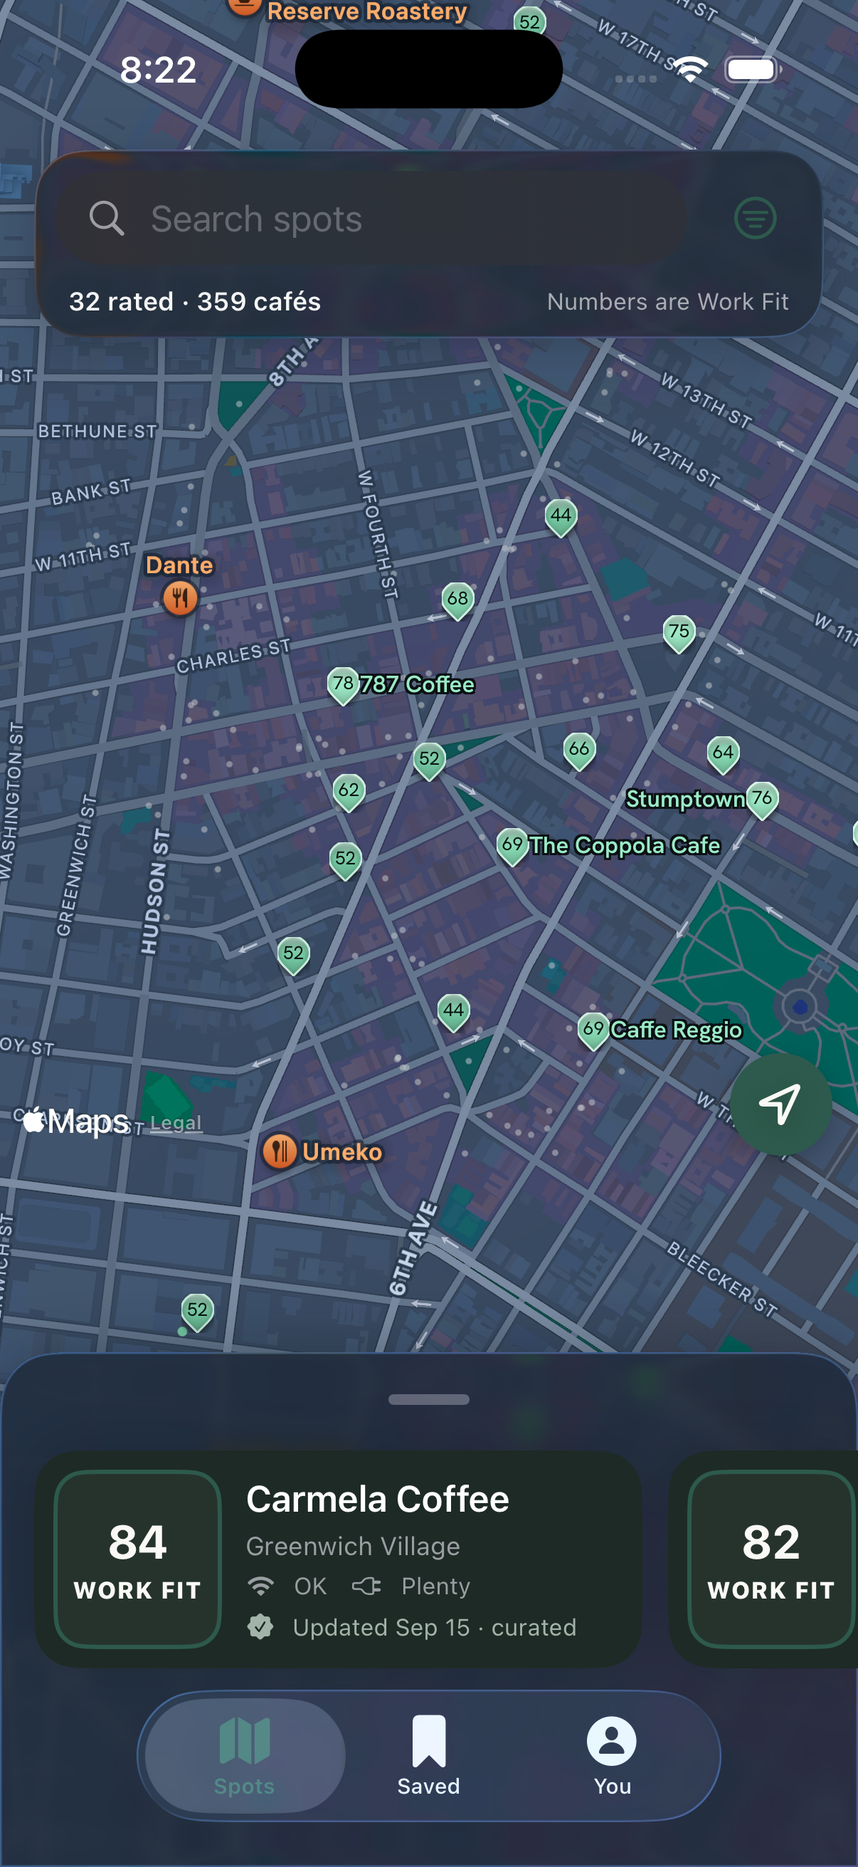
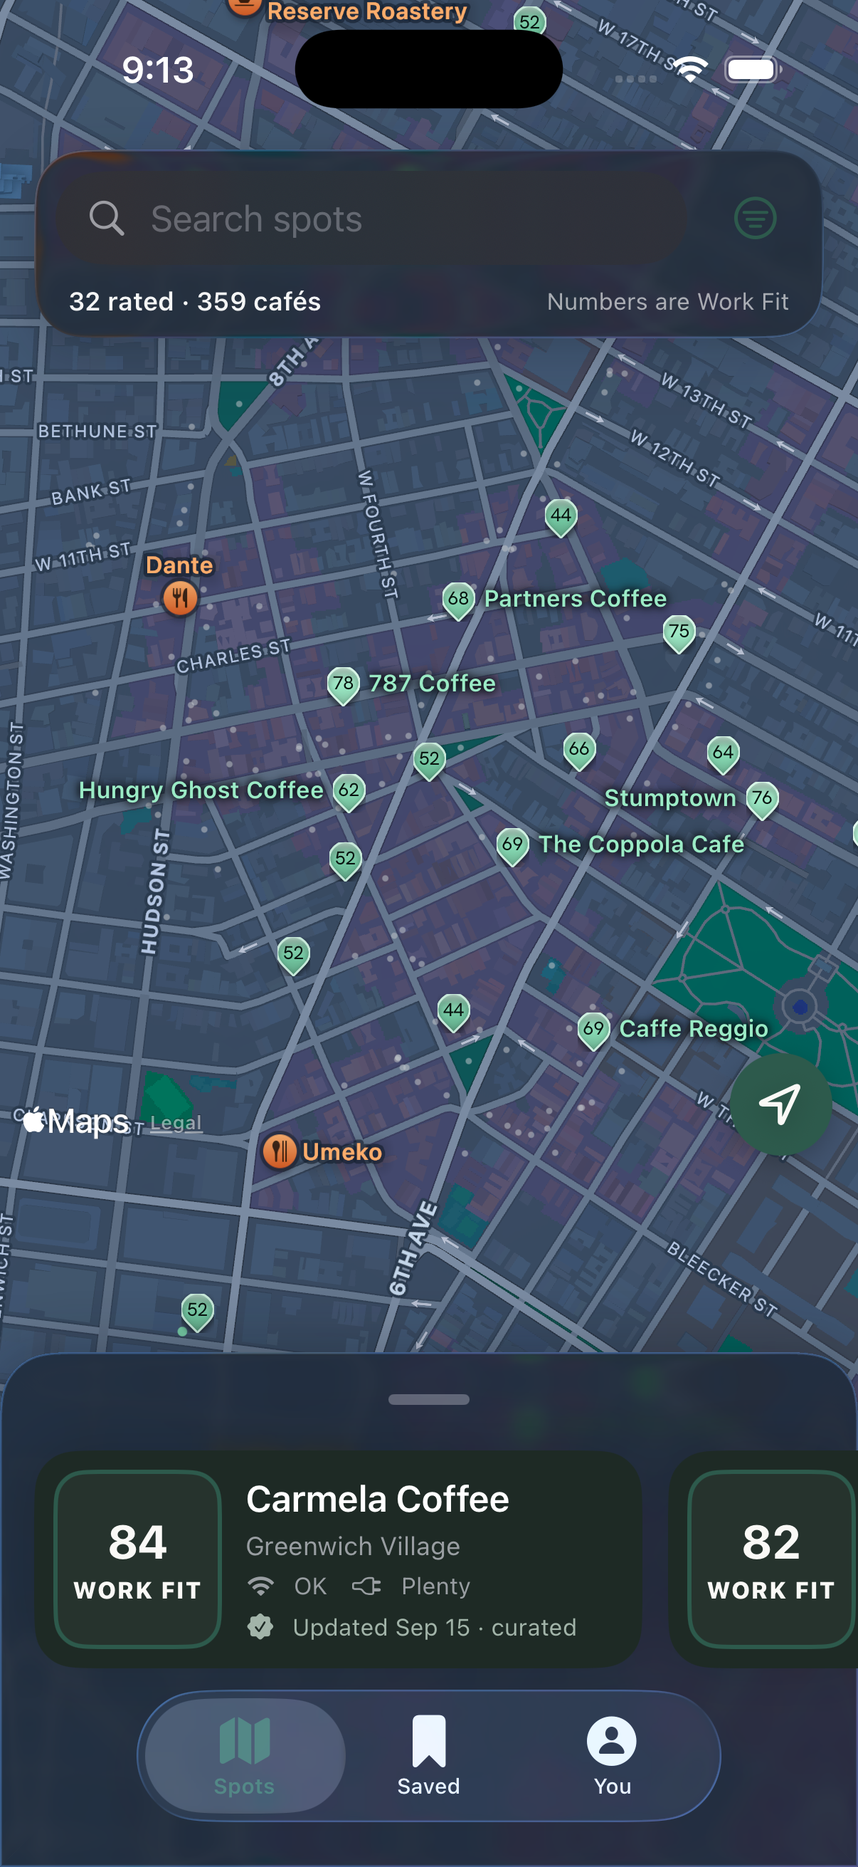
fix: label gap, font size, score priority, and halo (supervisor round 2)
Supervisor screenshot review of PR #224 found four label defects; a fifth
turned up during re-verification. All fixed:

1. Gap: the HStack(spacing: 0) label layout never actually reserved the
   planner's own 4pt gap, so text rendered flush against the pin
   ("78787 Coffee"). Now real .padding() on the label slot's near edge,
   with the reserved width kept in one place
   (TeardropMarkerView.labelSlotWidth) so the view and the planner's
   collision/anchor math can't drift apart again.
2. Size: BrewDeskFont.markerLabel() chained .weight(.semibold) onto a
   fixedSize custom Font whose face doesn't have a semibold variant to
   synthesize, producing an oversized/malformed glyph run (~15-16pt
   instead of 11pt). Switched to .system(size:weight:) — a real
   multi-weight family — at a true fixed 11pt, bumping to a capped 13pt
   only once DynamicTypeSize.isAccessibilitySize is true.
3. Which pins get labels: placeNameLabels used to .prefix(limit) the
   CANDIDATE pool (only ever attempt the top-limit scored venues), so a
   dense cluster could lose several of the best-scored candidates to
   collisions and end up with fewer labels than the target, never trying
   the next-best-scored venues to fill the remaining slots. limit is now
   a target COUNT OF SUCCESSFUL PLACEMENTS — the loop walks the full
   score-ranked list until it lands or exhausts candidates.
4. Halo: replaced the 8-copy offset-text stack (read as a solid dark box
[…]

diff --git a/Packages/BrewDeskKit/Sources/BrewDeskKit/MapAnnotationPlanner.swift b/Packages/BrewDeskKit/Sources/BrewDeskKit/MapAnnotationPlanner.swift
@@ -238,7 +238,7 @@ public enum MapAnnotationPlanner {
     private static let labelScreenMargin: CGFloat = 6
 
     private static func placeNameLabels(
-        into placed: inout [MarkerPlacement], grid: CollisionGrid, projector: ScreenProjector,
+        into placed: inout [MarkerPlacement], grid: CollisionGrid, headBoxes: [AABB], projector: ScreenProjector,
         diameter: CGFloat, mpp: Double, mapSize: CGSize
     ) {
         guard diameter >= numberThreshold else { return }
@@ -248,9 +248,20 @@ public enum MapAnnotationPlanner {
             return !m.isSelected && m.showsNumber && m.kind.teardropDiameter != nil
         }
         // `placed` is already score-descending for rated teardrops (the
-        // selected venue, if any, is index 0 and excluded above) — take the
-        // best `limit` of the eligible ones in that same order.
-        for index in eligibleIndices.prefix(limit) {
+        // selected venue, if any, is index 0 and excluded above), so
+        // `eligibleIndices` is too. Supervisor review (bd#221 round 2):
+        // this used to `.prefix(limit)` the CANDIDATE pool — i.e. only
+        // ever ATTEMPT the top `limit` scored venues — so a dense cluster
+        // could lose several of the very best-scored candidates to
+        // collisions and end up with fewer labels than `limit`, while
+        // never giving the next-best-scored venues (rank `limit+1`,
+        // `limit+2`, …) a chance to fill those slots. `limit` is a target
+        // COUNT OF SUCCESSFUL PLACEMENTS, not a candidate cutoff — keep
+        // walking the score-ranked list until `limit` labels actually
+        // land or candidates run out.
+        var placedCount = 0
+        for index in eligibleIndices {
+            guard placedCount < limit else { break }
             let venue = placed[index].venue
             let point = projector.point(for: coordinate(of: venue))
             let headCenter = CGPoint(x: point.x, y: point.y - diameter * headCenterFromTip)
@@ -270,12 +281,19 @@ public enum MapAnnotationPlanner {
                 guard rect.minX >= labelScreenMargin, rect.maxX <= mapSize.width - labelScreenMargin else { continue }
                 let box = AABB(minX: rect.minX, maxX: rect.maxX, minY: rect.minY, maxY: rect.maxY)
                 guard !grid.collides(box) else { continue }
+                // `grid` alone isn't enough — see `headBoxes`' own doc
+                // comment in `plan()`: its footprints are tip-centered and
+                // under-cover a neighbour's TRUE visual head, so a label
+                // that clears `grid` can still visually run through part
+                // of a nearby pin's actual circle.
+                guard !headBoxes.contains(where: { $0.intersects(box) }) else { continue }
                 grid.insert(box)
                 let m = placed[index]
                 placed[index] = MarkerPlacement(
                     venue: m.venue, kind: m.kind, showsNumber: m.showsNumber, isSelected: m.isSelected,
                     nameLabelSide: side
                 )
+                placedCount += 1
                 break
             }
         }
@@ -396,13 +414,37 @@ public enum MapAnnotationPlanner {
 
         var placed: [MarkerPlacement] = []
         var totalPlaced = 0
+        // bd#221 "names on" — TRUE visual head boxes (headCenter ± radius),
+        // separate from `grid`'s own teardrop footprints (which are
+        // centered on the TIP, per `teardropFootprint`'s own doc comment —
+        // "head diameter + 1pt" measured from the coordinate, not from the
+        // shape's actual visual center). A teardrop's real circular head
+        // sits `diameter · headCenterFromTip` ABOVE its tip, which the
+        // tip-centered footprint only partially covers — fine for
+        // teardrop-vs-teardrop spacing (every pin uses the same
+        // convention, so relative spacing stays conservative), but a
+        // label placed to CLEAR that footprint could still visually
+        // overlap a neighbour's real head above it. Supervisor review
+        // (bd#221 round 2) caught exactly this: a label sitting flush
+        // against `grid`'s footprint boundary still drew through part of
+        // the next pin's head. Checked ADDITIONALLY, alongside `grid`, in
+        // `placeNameLabels` — this never changes teardrop-vs-teardrop
+        // placement itself, only what a LABEL is allowed to sit under.
+        var headBoxes: [AABB] = []
+        func headBox(diameter: CGFloat, tip: CGPoint) -> AABB {
+            let center = CGPoint(x: tip.x, y: tip.y - diameter * headCenterFromTip)
+            let radius = diameter / 2
+            return AABB(minX: center.x - radius, maxX: center.x + radius, minY: center.y - radius, maxY: center.y + radius)
+        }
 
         // 1. Selected venue — highest priority, always a full teardrop at
         // the fixed 30pt size, seeded before anything else.
         var selectedVenue: Venue?
         if let selectedVenueID, let match = visible.first(where: { $0.id == selectedVenueID }) {
-            let box = teardropFootprint(diameter: selectedDiameter, at: projector.point(for: coordinate(of: match)))
+            let point = projector.point(for: coordinate(of: match))
+            let box = teardropFootprint(diameter: selectedDiameter, at: point)
             grid.insert(box)
+            headBoxes.append(headBox(diameter: selectedDiameter, tip: point))
             placed.append(
                 MarkerPlacement(
                     venue: match,
@@ -434,6 +476,7 @@ public enum MapAnnotationPlanner {
                 let teardropBox = teardropFootprint(diameter: ratedDiameter, at: point)
                 if !grid.collides(teardropBox) {
                     grid.insert(teardropBox)
+                    headBoxes.append(headBox(diameter: ratedDiameter, tip: point))
                     placed.append(MarkerPlacement(
                         venue: candidate,
                         kind: .teardrop(diameter: ratedDiameter),
@@ -461,7 +504,7 @@ public enum MapAnnotationPlanner {
         // pin above is already placed: labels are pure decoration and must
         // never cause a pin to demote (spec's own rule) — this pass only
         // ever appends to `grid`, it never removes or re-checks a pin.
-        placeNameLabels(into: &placed, grid: grid, projector: projector, diameter: ratedDiameter, mpp: mpp, mapSize: size)
+        placeNameLabels(into: &placed, grid: grid, headBoxes: headBoxes, projector: projector, diameter: ratedDiameter, mpp: mpp, mapSize: size)
 
         // 3. Unrated (unobserved) venues — faint neutral specks, nearest-
         // to-centre first, never numbered, never tier-colored, never

diff --git a/Packages/BrewDeskKit/Sources/BrewDeskKit/MapAnnotationViews.swift b/Packages/BrewDeskKit/Sources/BrewDeskKit/MapAnnotationViews.swift
@@ -151,15 +151,27 @@ struct TeardropMarkerView: View, Equatable {
 
     /// bd#221 "names on": the café name beside this pin's head — a real
     /// `HStack` sibling (see `body`'s doc comment for why), fixed at
-    /// `labelMaxWidth` × the pin's own `frameHeight` so `annotationAnchor
-    /// (for:)` can compute a stable fraction and the pin's own bottom edge
-    /// (its tip) stays exactly where `HStack(alignment: .bottom)` puts it
-    /// regardless of the label's actual text height. The text itself hugs
-    /// the near edge (against the gap) and grows away from the head,
-    /// vertically re-centered onto the HEAD (not the frame) with the same
-    /// `numberVerticalOffset` geometry the score number uses. Not hit-
-    /// testable and hidden from accessibility — `markerButton`'s own
-    /// `.accessibilityLabel` already carries the café name for VoiceOver.
+    /// `labelSlotWidth` (the 4pt gap PLUS `labelMaxWidth`, matching what
+    /// `MapAnnotationPlanner.placeNameLabels` reserves) × the pin's own
+    /// `frameHeight`, so `annotationAnchor(for:)` can compute a stable
+    /// fraction and the pin's own bottom edge (its tip) stays exactly
+    /// where `HStack(alignment: .bottom)` puts it regardless of the
+    /// label's actual text height.
+    ///
+    /// Supervisor review (bd#221 round 2 — "the name touches the pin
+    /// head"): the first cut gave the label the SAME `labelMaxWidth`-wide
+    /// slot the pin itself is adjacent to, with `spacing: 0` on the
+    /// enclosing `HStack` — nothing in that layout ever reserved the
+    /// planner's own 4pt gap, so the text rendered flush against the
+    /// pin's edge. The gap is now real layout space (`.padding`), not a
+    /// value that only existed in the planner's collision math.
+    ///
+    /// The text itself hugs the FAR edge of the gap and grows away from
+    /// the head, vertically re-centered onto the HEAD (not the frame)
+    /// with the same `numberVerticalOffset` geometry the score number
+    /// uses. Not hit-testable and hidden from accessibility —
+    /// `markerButton`'s own `.accessibilityLabel` already carries the
+    /// café name for VoiceOver.
     private func labelSlot(side: NameLabelSide) -> some View {
         HaloText(
             text: placement.venue.name,
@@ -168,14 +180,22 @@ struct TeardropMarkerView: View, Equatable {
         )
         .lineLimit(1)
         .truncationMode(.tail)
+        .padding(side == .trailing ? .leading : .trailing, MapAnnotationPlanner.labelGap)
         .frame(
-            width: MapAnnotationPlanner.labelMaxWidth, height: frameHeight,
+            width: Self.labelSlotWidth, height: frameHeight,
             alignment: side == .trailing ? .leading : .trailing
         )
         .offset(y: numberVerticalOffset)
         .allowsHitTesting(false)
         .accessibilityHidden(true)
     }
+
+    /// Total reserved width for a label slot — the 4pt gap plus the max
+    /// text width — kept in one place so the view (here) and the
+    /// planner's own collision/anchor math (`MapAnnotationPlanner
+    /// .placeNameLabels`) can never drift apart the way the missing-gap
+    /// bug above did.
+    static let labelSlotWidth = MapAnnotationPlanner.labelGap + MapAnnotationPlanner.labelMaxWidth
 
     /// The `Annotation` anchor this placement needs — see `body`'s doc
     /// comment. `.bottom` (the pin's own tip, centered) when there's no
@@ -186,7 +206,7 @@ struct TeardropMarkerView: View, Equatable {
     static func annotationAnchor(for placement: MarkerPlacement) -> UnitPoint {
         guard let side = placement.nameLabelSide else { return .bottom }
         let diameter = placement.kind.teardropDiameter ?? MapAnnotationPlanner.selectedDiameter
-        let labelWidth = MapAnnotationPlanner.labelMaxWidth
+        let labelWidth = labelSlotWidth
         let totalWidth = diameter + labelWidth
         let pinCenterX = side == .trailing ? diameter / 2 : labelWidth + diameter / 2
         return UnitPoint(x: pinCenterX / totalWidth, y: 1)
@@ -317,31 +337,34 @@ enum MarkerBodyImageCache {
 }
 
 /// bd#221 "names on": a haloed text label — the design-review mock's own
-/// multi-direction `text-shadow` halo (no solid background pill, so a
-/// label reads over any basemap detail without ever looking like its own
-/// chrome element). Eight halo copies offset a hair in every direction
-/// behind one solid-color copy on top — cheap (all `Text`, no `Canvas`/
-/// blur filter) and correct in both appearances since both colors are
-/// already adaptive `BrewDeskPalette` tokens.
+/// `text-shadow` halo (no solid background pill, so a label reads over any
+/// basemap detail without ever looking like its own chrome element).
+///
+/// Supervisor review (bd#221 round 2 — "the dark map's hood screenshot
+/// shows label halos as a visible dark box around text; use a soft 2-3pt
+/// blurred shadow, not a filled rect"): the first cut stacked EIGHT
+/// ±1pt-offset opaque copies of the text behind the real one — at this
+/// tiny 11pt size those copies overlapped densely enough to read as one
+/// solid rounded rectangle, not a halo. A real SwiftUI `.shadow(radius:)`
+/// (a true Gaussian blur, applied twice to push it closer to the mock's
+/// own multi-layer CSS `text-shadow`) reads as the intended soft glow —
+/// cheaper too: two shadow passes on one `Text`, not nine laid-out copies.
 private struct HaloText: View {
     let text: String
     let color: Color
     let halo: Color
 
-    private static let haloOffsets: [(CGFloat, CGFloat)] = [
-        (-1, -1), (0, -1), (1, -1),
-        (-1, 0), (1, 0),
-        (-1, 1), (0, 1), (1, 1),
-    ]
+    /// Only crosses out of the fixed 11pt at a genuine ACCESSIBILITY text
+    /// size (not every step of Dynamic Type) — see `BrewDeskFont
+    /// .markerLabel(accessibilityBump:)`'s doc comment.
+    @Environment(\.dynamicTypeSize) private var dynamicTypeSize
 
     var body: some View {
-        ZStack {
-            ForEach(Array(Self.haloOffsets.enumerated()), id: \.offset) { _, o in
-                Text(verbatim: text).foregroundStyle(halo).offset(x: o.0, y: o.1)
-            }
-            Text(verbatim: text).foregroundStyle(color)
-        }
-        .font(BrewDeskFont.markerLabel())
+        Text(verbatim: text)
+            .font(BrewDeskFont.markerLabel(accessibilityBump: dynamicTypeSize.isAccessibilitySize))
+            .foregroundStyle(color)
+            .shadow(color: halo, radius: 2)
+            .shadow(color: halo, radius: 2)
     }
 }
 

diff --git a/Packages/BrewDeskKit/Sources/BrewDeskKit/BrewDeskFont.swift b/Packages/BrewDeskKit/Sources/BrewDeskKit/BrewDeskFont.swift
@@ -55,14 +55,33 @@ public enum BrewDeskFont {
     }
 
     /// bd#221 "names on": the café-name label drawn beside a top pin's
-    /// head — fixed 11pt Semibold Hanken Grotesk (Apple POI label style),
-    /// deliberately NOT Dynamic-Type-scaled for the same reason
-    /// `markerNumber` isn't: it has to fit the collision-checked screen-
-    /// space box the planner already reserved for it.
-    public static func markerLabel() -> Font {
-        hankenGroteskLoaded
-            ? .custom("HankenGrotesk-Regular", fixedSize: 11).weight(.semibold)
-            : .system(size: 11, weight: .semibold, design: .default)
+    /// head — fixed 11pt Semibold (Apple POI label style), deliberately
+    /// NOT Dynamic-Type-scaled for the same reason `markerNumber` isn't:
+    /// it has to fit the collision-checked screen-space box the planner
+    /// already reserved for it.
+    ///
+    /// Supervisor review (bd#221 round 2 — "renders far larger than the
+    /// reference, ≈15-16pt vs the specified 11pt"): the first cut chained
+    /// `.custom("HankenGrotesk-Regular", fixedSize: 11).weight(.semibold)`
+    /// — `markerNumber` above uses the identical pattern at a genuinely
+    /// fixed size, so the bug wasn't Dynamic Type scaling the FONT; it was
+    /// this call asking a custom face registered under the PostScript name
+    /// "…-Regular" to synthesize a heavier weight it doesn't have. Unlike
+    /// `markerNumber` (always `.weight(.regular)`, the face's own real
+    /// weight, no synthesis needed), that produced an oversized/malformed
+    /// glyph run instead of a clean bold. `.system(size:weight:)` is a
+    /// real multi-weight family — semibold synthesis just works there —
+    /// so the label now uses the system face outright at a true fixed
+    /// 11pt, per the supervisor's own fix.
+    ///
+    /// `accessibilityBump`: this still isn't FULLY Dynamic-Type-deaf —
+    /// once the reader's text size crosses into an actual accessibility
+    /// category (`DynamicTypeSize.isAccessibilitySize`), the label bumps
+    /// to a capped 13pt rather than staying frozen at 11pt forever; below
+    /// that threshold (every normal, non-accessibility setting) it's
+    /// exactly 11pt, matching the spec and the reference.
+    public static func markerLabel(accessibilityBump: Bool = false) -> Font {
+        .system(size: accessibilityBump ? 13 : 11, weight: .semibold, design: .default)
     }
 
     /// Whether each bundled family actually registered — read by

diff --git a/Packages/BrewDeskKit/Tests/BrewDeskKitTests/MapAnnotationPlannerTests.swift b/Packages/BrewDeskKit/Tests/BrewDeskKitTests/MapAnnotationPlannerTests.swift
@@ -348,6 +348,40 @@ struct MapAnnotationPlannerTests {
         #expect(streetPlan.markers.first { $0.id == best.id }?.nameLabelSide != nil, "the best-scored venue must win a label when there's room for one")
     }
 
+    @Test func nameLabelsNeverOverlapAPinsTrueVisualHeadNotJustItsTipCenteredFootprint() {
+        // Regression (bd#221 round 2 supervisor review, screenshot
+        // evidence): `teardropFootprint`'s own collision box is centered
+        // on a pin's TIP, which sits `diameter · headCenterFromTip` BELOW
+        // its true circular head — a label that clears that footprint
+        // alone can still visually run through the upper part of a
+        // neighbour's actual head (a "52" pin drew straight through the
+        // middle of "Joe Coffee Company"'s label in the live screenshot).
+        // Dense enough that tight spacing between a labeled pin and its
+        // neighbours is reliably exercised.
+        let testRegion = region(forMetersPerPoint: 1.8, mapWidth: mapSize.width)
+        let venues = grid(count: 80, extent: 0.012, observed: true)
+        let plan = MapAnnotationPlanner.plan(venues: venues, region: testRegion, mapSize: mapSize)
+        let mpp = MapAnnotationPlanner.metersPerPoint(region: testRegion, mapWidth: mapSize.width)
+        let diameter = MapAnnotationPlanner.headDiameter(forMetersPerPoint: mpp)
+        let projector = ScreenProjector(region: testRegion, size: mapSize)
+
+        func trueHeadRect(for placement: MarkerPlacement) -> CGRect {
+            let point = projector.point(for: coordinate(of: placement.venue))
+            let center = CGPoint(x: point.x, y: point.y - diameter * MapAnnotationPlanner.headCenterFromTip)
+            let radius = diameter / 2
+            return CGRect(x: center.x - radius, y: center.y - radius, width: diameter, height: diameter)
+        }
+
+        let labelBoxes = plan.markers.compactMap { labelBox(for: $0, region: testRegion, mapSize: mapSize, diameter: diameter) }
+        let headRects = plan.teardrops.map(trueHeadRect(for:))
+
+        for label in labelBoxes {
+            for head in headRects {
+                #expect(!label.intersects(head), "a name label overlaps a pin's true visual head circle, not just its tip-centered footprint")
+            }
+        }
+    }
+
     @Test func nameLabelsNeverOverlapAnyPinFootprintOrAnotherLabel() {
         let testRegion = region(forMetersPerPoint: 1.8, mapWidth: mapSize.width)
         let venues = grid(count: 60, extent: 0.01, observed: true)

diff --git a/docs/ui-review-assets/221-pins-round2/README.md b/docs/ui-review-assets/221-pins-round2/README.md
@@ -44,7 +44,9 @@ This PR's sheet: `p2-sheet.png` (also `p2-hood-dark.png`,
 - Same treatment at street zoom; labels for "787 Coffee", "Stumptown", "The
   Coppola Cafe", "Caffe Reggio" all legible, no overlaps.
 
-## Bug found and fixed during verification
+## Bugs found and fixed during verification
+
+**Round 1 (before first supervisor pass):**
 
 The first implementation rendered the name label via a SwiftUI `.overlay()`
 extending past the pin's own declared frame. MapKit's `Annotation` measures
@@ -62,3 +64,52 @@ own left/right edge could render partly off-screen (clipped by the device
 bezel). Fixed with a `labelScreenMargin` bounds check in
 `MapAnnotationPlanner.placeNameLabels` (mirrors the design-review mock's
 own `lx<6||lx+tw>W-6` guard).
+
+**Round 2 (supervisor screenshot review of PR #224):**
+
+1. **Label gap** — the `HStack(spacing: 0)` sibling layout from round 1
+   never actually reserved the planner's own 4pt gap; the label rendered
+   flush against the pin ("78787 Coffee"). Fixed with real `.padding()` on
+   the near edge of the label slot, and widened the reserved slot
+   (`TeardropMarkerView.labelSlotWidth = labelGap + labelMaxWidth`) so the
+   view and the planner's collision/anchor math can't drift apart again.
+2. **Label size** — `BrewDeskFont.markerLabel()` chained `.weight(.semibold)`
+   onto `Font.custom("HankenGrotesk-Regular", fixedSize: 11)`. Unlike
+   `markerNumber` (always `.weight(.regular)` — the face's own real weight,
+   no synthesis needed), asking that custom face to synthesize a heavier
+   weight it doesn't have produced an oversized/malformed glyph run
+   (≈15-16pt instead of 11pt). Switched to `.system(size:weight:)`, a real
+   multi-weight family where semibold synthesis just works, at a true fixed
+   11pt — 13pt only once `DynamicTypeSize.isAccessibilitySize` is true.
+3. **Which pins get labels** — `MapAnnotationPlanner.placeNameLabels` used
+   to `.prefix(limit)` the CANDIDATE pool, i.e. only ever ATTEMPT the
+   top-`limit` scored venues. If several of those lost their placement
+   attempt to a dense cluster, the plan just ended up with fewer labels
+   than `limit` — it never gave the next-best-scored venues a chance to
+   fill the remaining slots. `limit` is now a target count of SUCCESSFUL
+   placements: the loop walks the full score-ranked list, skipping a
+   candidate that has no room, until `limit` labels land or candidates run
+   out.
+4. **Halo** — the round-1 halo stacked eight ±1pt-offset opaque text copies
+   behind the real one; at 11pt those copies overlapped densely enough to
+   read as one solid dark rectangle, not a halo. Replaced with two
+   `.shadow(color:radius:2)` passes on a single `Text` — a true Gaussian
+   blur, reading as the intended soft glow (and cheaper: perf improved
+   further, see below).
+5. **Found during round-2 re-verification** (not supervisor-flagged, but
+   caught in the corrected screenshots): a nearby pin's TRUE visual head
+   could still overlap a label. `MapAnnotationPlanner.teardropFootprint`'s
+   existing collision box (pre-existing, bd#212-era) is centered on a
+   pin's TIP, which sits `diameter · headCenterFromTip` BELOW its actual
+   circular head — a label that cleared that footprint could still run
+   through the upper part of a neighbour's real head (a "52" pin drew
+   through the middle of "Joe Coffee Company"'s label). Fixed by tracking
+   each teardrop's TRUE head box (`headCenter ± radius`) separately and
+   checking a label attempt against those too, alongside the existing
+   `grid`. Regression test:
+   `nameLabelsNeverOverlapAPinsTrueVisualHeadNotJustItsTipCenteredFootprint`.
+
+Perf after round 2 (`MapPerformanceUITests.testScriptedPanFrameTiming`,
+Release, 3 runs): `0.1409 / 0.1167 / 0.1263`, average **0.1280** — better
+than both the round-1 cached-image average (0.1399) and the origin/main
+baseline (0.1474), consistent with the cheaper two-shadow-pass halo.
